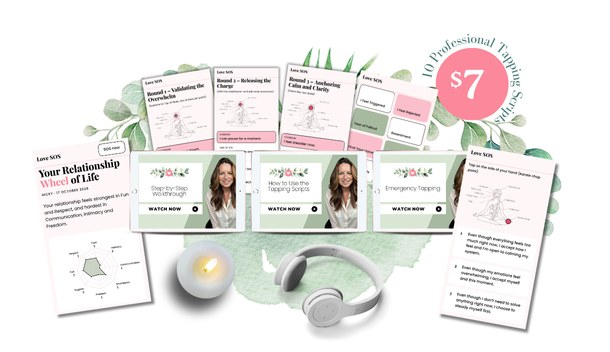
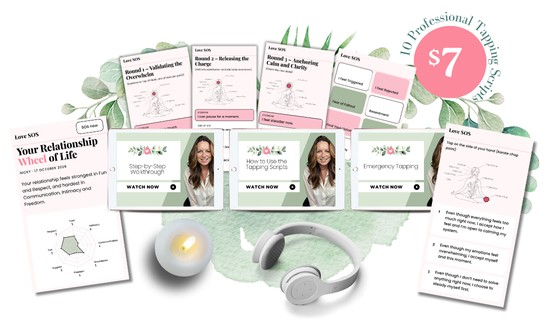
Love SOS sales page: final polish
- Larger hero mockup on laptops, trimmed of its white border
- Text sizes on laptops: body 18px, summary 19px, card text 17px
- Last "What actually shifts" card spans both columns
- Card 01 gets a home screen screenshot in the tablet frame; pictures alternate sides
- Price card heading, price and "One-time payment" centred; ticks stay left
- Three equal video covers in a row on laptops

Claude-Session: https://claude.ai/code/session_016QcYpYHw4waFwPtGTXWSez

diff --git a/lovesos.html b/lovesos.html
@@ -178,7 +178,7 @@
 
   /* Price card */
   .price-card { max-width: 480px; margin: 0 auto; background: var(--white); border: 2px solid var(--pink); border-radius: var(--radius); padding: 30px var(--pad); text-align: left; box-shadow: 0 14px 34px rgba(0, 0, 0, 0.08); }
-  .price-card h2 { text-align: left; margin-bottom: 16px; }
+  .price-card h2 { margin-bottom: 16px; }
   .big-price { font-family: var(--serif); font-weight: 800; font-size: 80px; line-height: 1; }
   .once { margin-top: 6px !important; font-size: 13px; font-weight: 500; letter-spacing: 0.04em; }
   .ticks { list-style: none; margin: 24px 0 0; padding: 0; text-align: left; }
@@ -222,6 +222,10 @@
   @media (prefers-reduced-motion: reduce) { .bar { transition: none; } }
   @media (min-width: 720px) { .bar { display: none; } }
 
+  /* Price card: heading, price and "One-time payment" centred; ticks left; button and line under it centred */
+  .price-card h2, .price-card .big-price, .price-card .once, .price-card .guarantee { text-align: center; }
+  .price-card .buy-wrap, .price-card .buy-wrap .builder-v2-block { text-align: center; }
+
   /* Laptop */
   @media (min-width: 900px) {
     :root { --band: 120px; --pad: 28px; }
@@ -232,7 +236,6 @@
     h3 { font-size: 22px; }
     .heart { width: 64px; }
     .name { font-size: 36px; }
-    .summary { font-size: 18px; }
     .under-btn { font-size: 14px; }
     .buy, .tc-v2-embeddable-trigger-el.buy { width: auto !important; min-width: 360px; font-size: 20px !important; display: inline-flex; }
     .buy-wrap { text-align: center; }
@@ -248,9 +251,16 @@
     .grid2 { grid-template-columns: 1fr 1fr; }
     .grid3 { grid-template-columns: 1fr 1fr 1fr; }
     .pull .pain-close { font-size: 30px; }
+    /* text sizes: body 18px, summary 19px, card text 17px */
+    .summary { font-size: 19px !important; }
+    .pain p, .shift p, .quote-card p, .item p, .whatis p, .faq .ans p { font-size: 17px; }
+    /* the last "What actually shifts" card spans both columns */
+    .shifts .shift:last-child { grid-column: 1 / -1; }
+    /* hero mockup fills most of the right column */
+    .hero { grid-template-columns: 5fr 6fr; gap: 48px; }
+    .hero .shot { max-width: none; width: 100%; }
     .hero .under-btn { text-wrap: wrap; font-size: 13px; white-space: nowrap; }
-    .feature .thumbs { grid-template-columns: 1fr 1fr; }
-    .feature .thumbs img:first-child { grid-column: 1 / -1; }
+    .feature .thumbs { grid-template-columns: 1fr 1fr 1fr; gap: 10px; }
 
     .feature:not(.solo) { display: grid; grid-template-columns: 1fr 1fr; gap: 40px; align-items: center; }
     .feature.flip > .item { order: 2; }
@@ -284,7 +294,7 @@
       <figure class="shot hero-pic">
         <picture>
           <source srcset="assets/lovesos/lovesos-kit.webp" type="image/webp">
-          <img src="assets/lovesos/lovesos-kit.jpg" width="610" height="352" alt="The Love SOS kit on screen: tapping rounds, the feelings cards, the three videos and the Relationship Wheel of Life" fetchpriority="high">
+          <img src="assets/lovesos/lovesos-kit.jpg" width="552" height="330" alt="The Love SOS kit on screen: tapping rounds, the feelings cards, the three videos and the Relationship Wheel of Life" fetchpriority="high">
         </picture>
       </figure>
     </div>
@@ -381,14 +391,20 @@
     <div class="wrap wide">
       <h2>Everything inside Love SOS</h2>
 
-      <div class="feature solo">
+      <div class="feature">
       <div class="item">
         <div class="item-head"><span class="num">01</span><h3>The Emergency Emotional Reset</h3></div>
         <p>One tap from the home screen. For when it's all too much and you just need to calm your nervous system enough to think clearly. Comes with its own guided tapping video.</p>
       </div>
+      <figure class="pic tablet-frame">
+        <picture>
+          <source srcset="assets/lovesos/lovesos-home.webp" type="image/webp">
+          <img src="assets/lovesos/lovesos-home.jpg" width="900" height="1620" loading="lazy" decoding="async" alt="The Love SOS home screen, with the SOS now button at the top">
+        </picture>
+      </figure>
       </div>
 
-      <div class="feature">
+      <div class="feature flip">
       <div class="item">
         <div class="item-head"><span class="num">02</span><h3>10 tapping scripts</h3></div>
         <p>For feeling triggered, rejected, resentful, scared of the fallout, struggling to find your voice, stuck in blame, when everything feels heavy, wanting to express love, feeling guarded after hurt, and feeling like you've lost yourself.</p>
@@ -401,7 +417,7 @@
       </figure>
       </div>
 
-      <div class="feature flip">
+      <div class="feature">
       <div class="item">
         <div class="item-head"><span class="num">03</span><h3>3 short videos from me</h3></div>
         <p>How to Use, Walkthrough and Emergency Tapping. You'll know exactly what to do, even if you've never tapped before.</p>
@@ -415,7 +431,7 @@
       </div>
       </div>
 
-      <div class="feature">
+      <div class="feature flip">
       <div class="item">
         <div class="item-head"><span class="num">04</span><h3>The tapping points chart</h3></div>
         <p>Every point in one simple picture, so you never have to guess.</p>
@@ -428,7 +444,7 @@
       </figure>
       </div>
 
-      <div class="feature flip">
+      <div class="feature">
       <div class="item">
         <div class="item-head"><span class="num">05</span><h3>The Relationship Wheel of Life</h3></div>
         <p>Score 8 parts of your relationship in about 2 minutes and get your own personalised results: where it feels good, where it feels hardest, and exactly which scripts to start with. Come back in a month and see what's shifted.</p>
